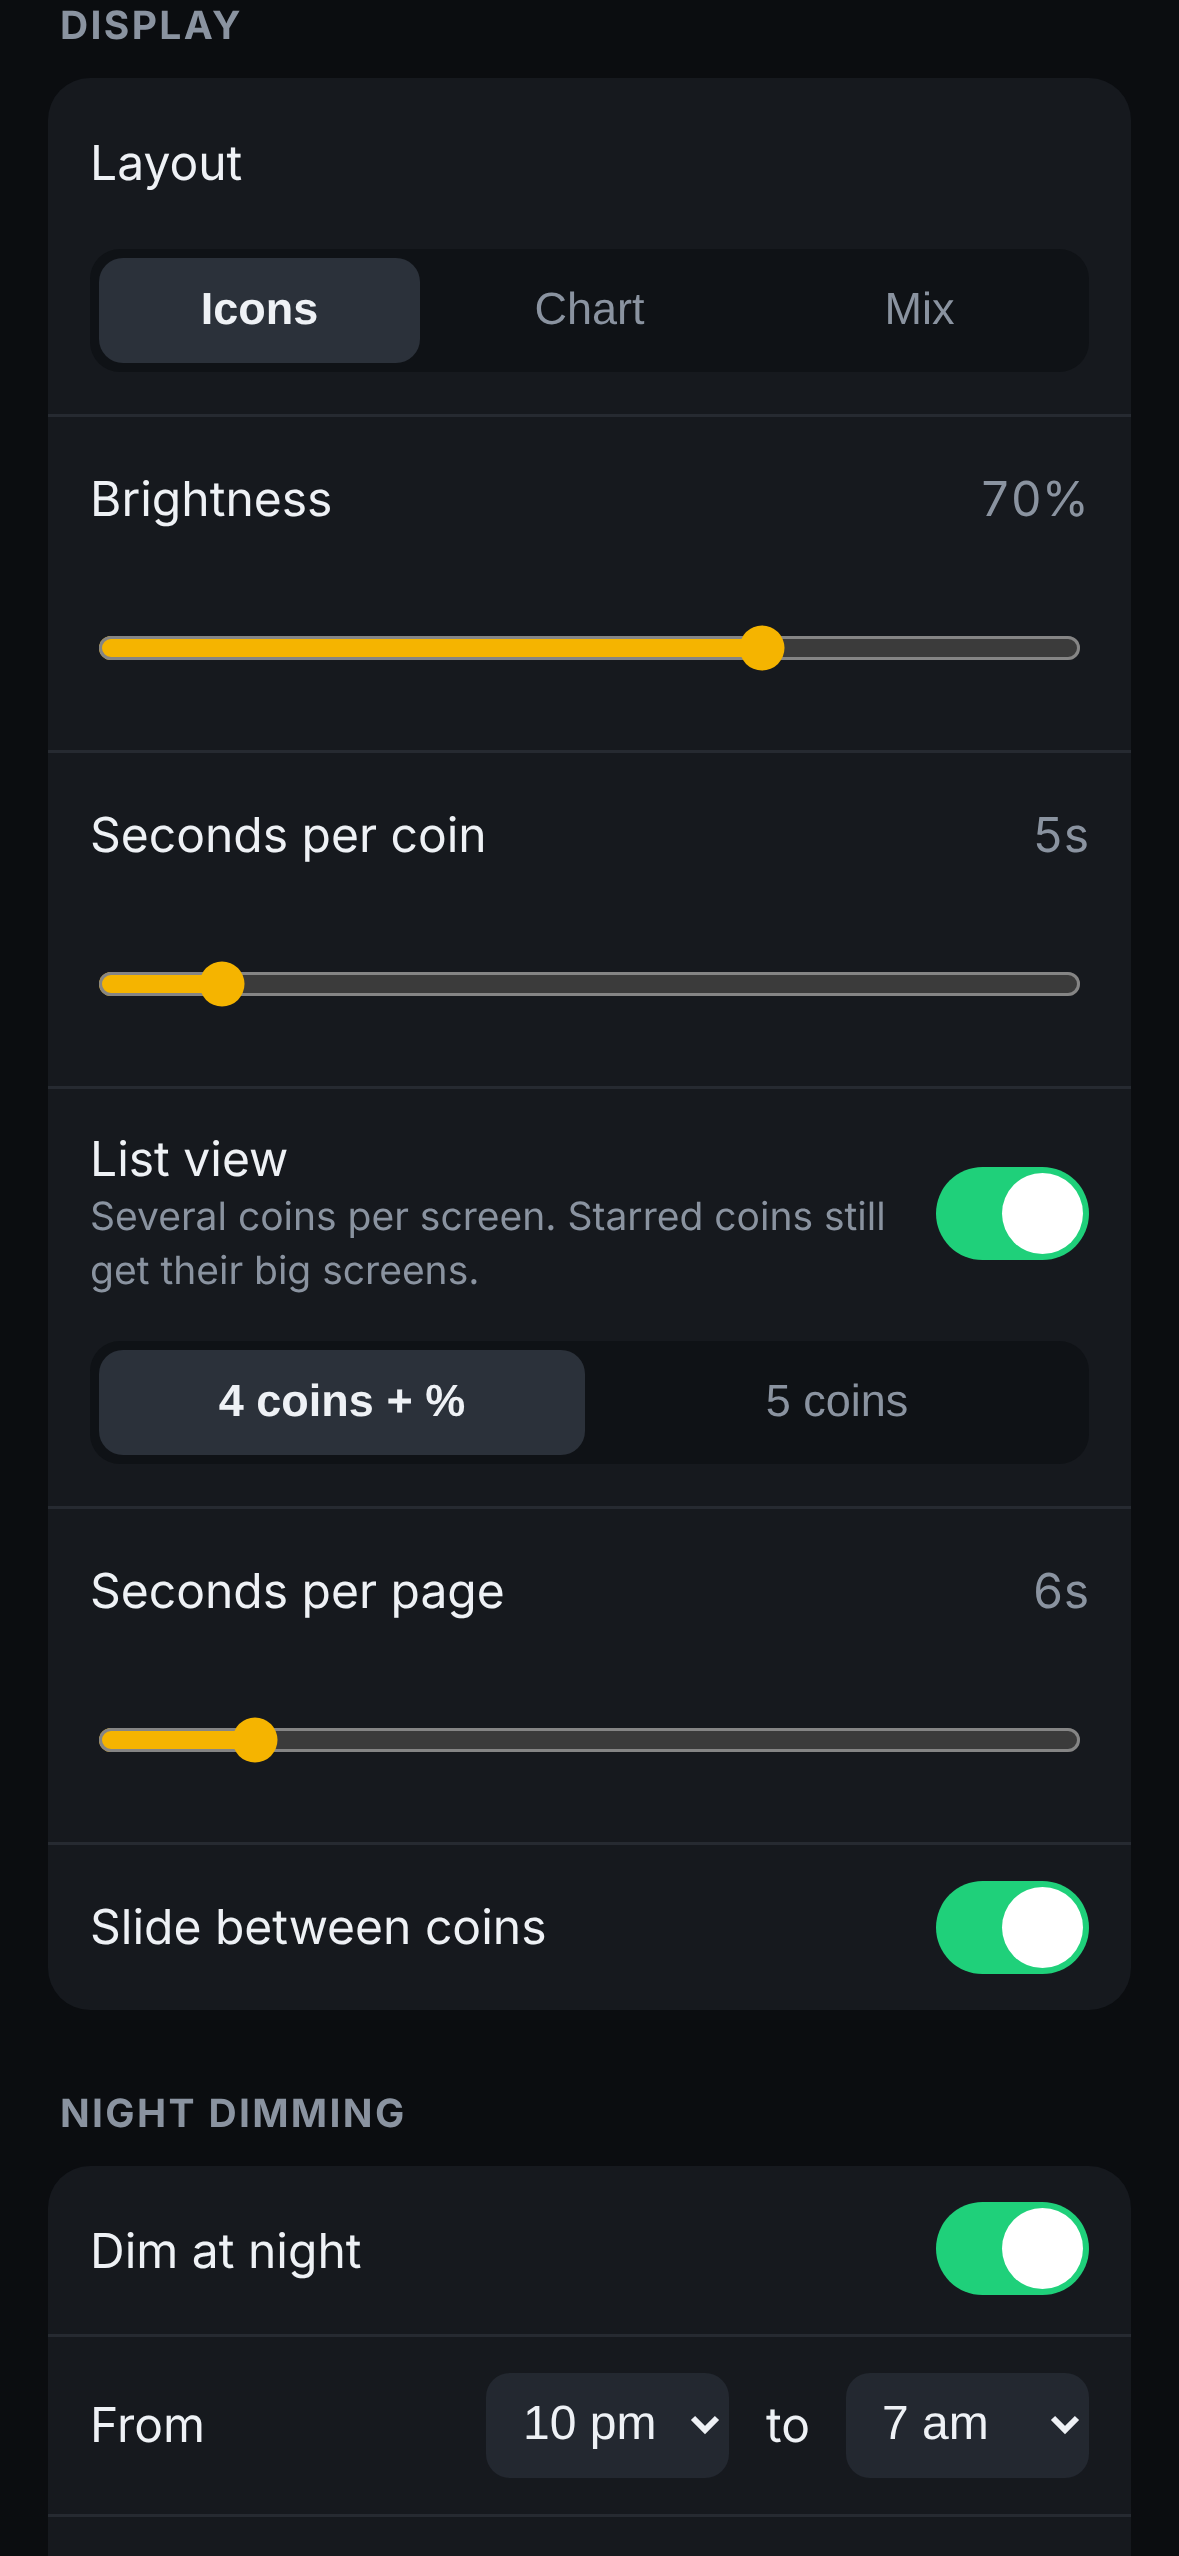
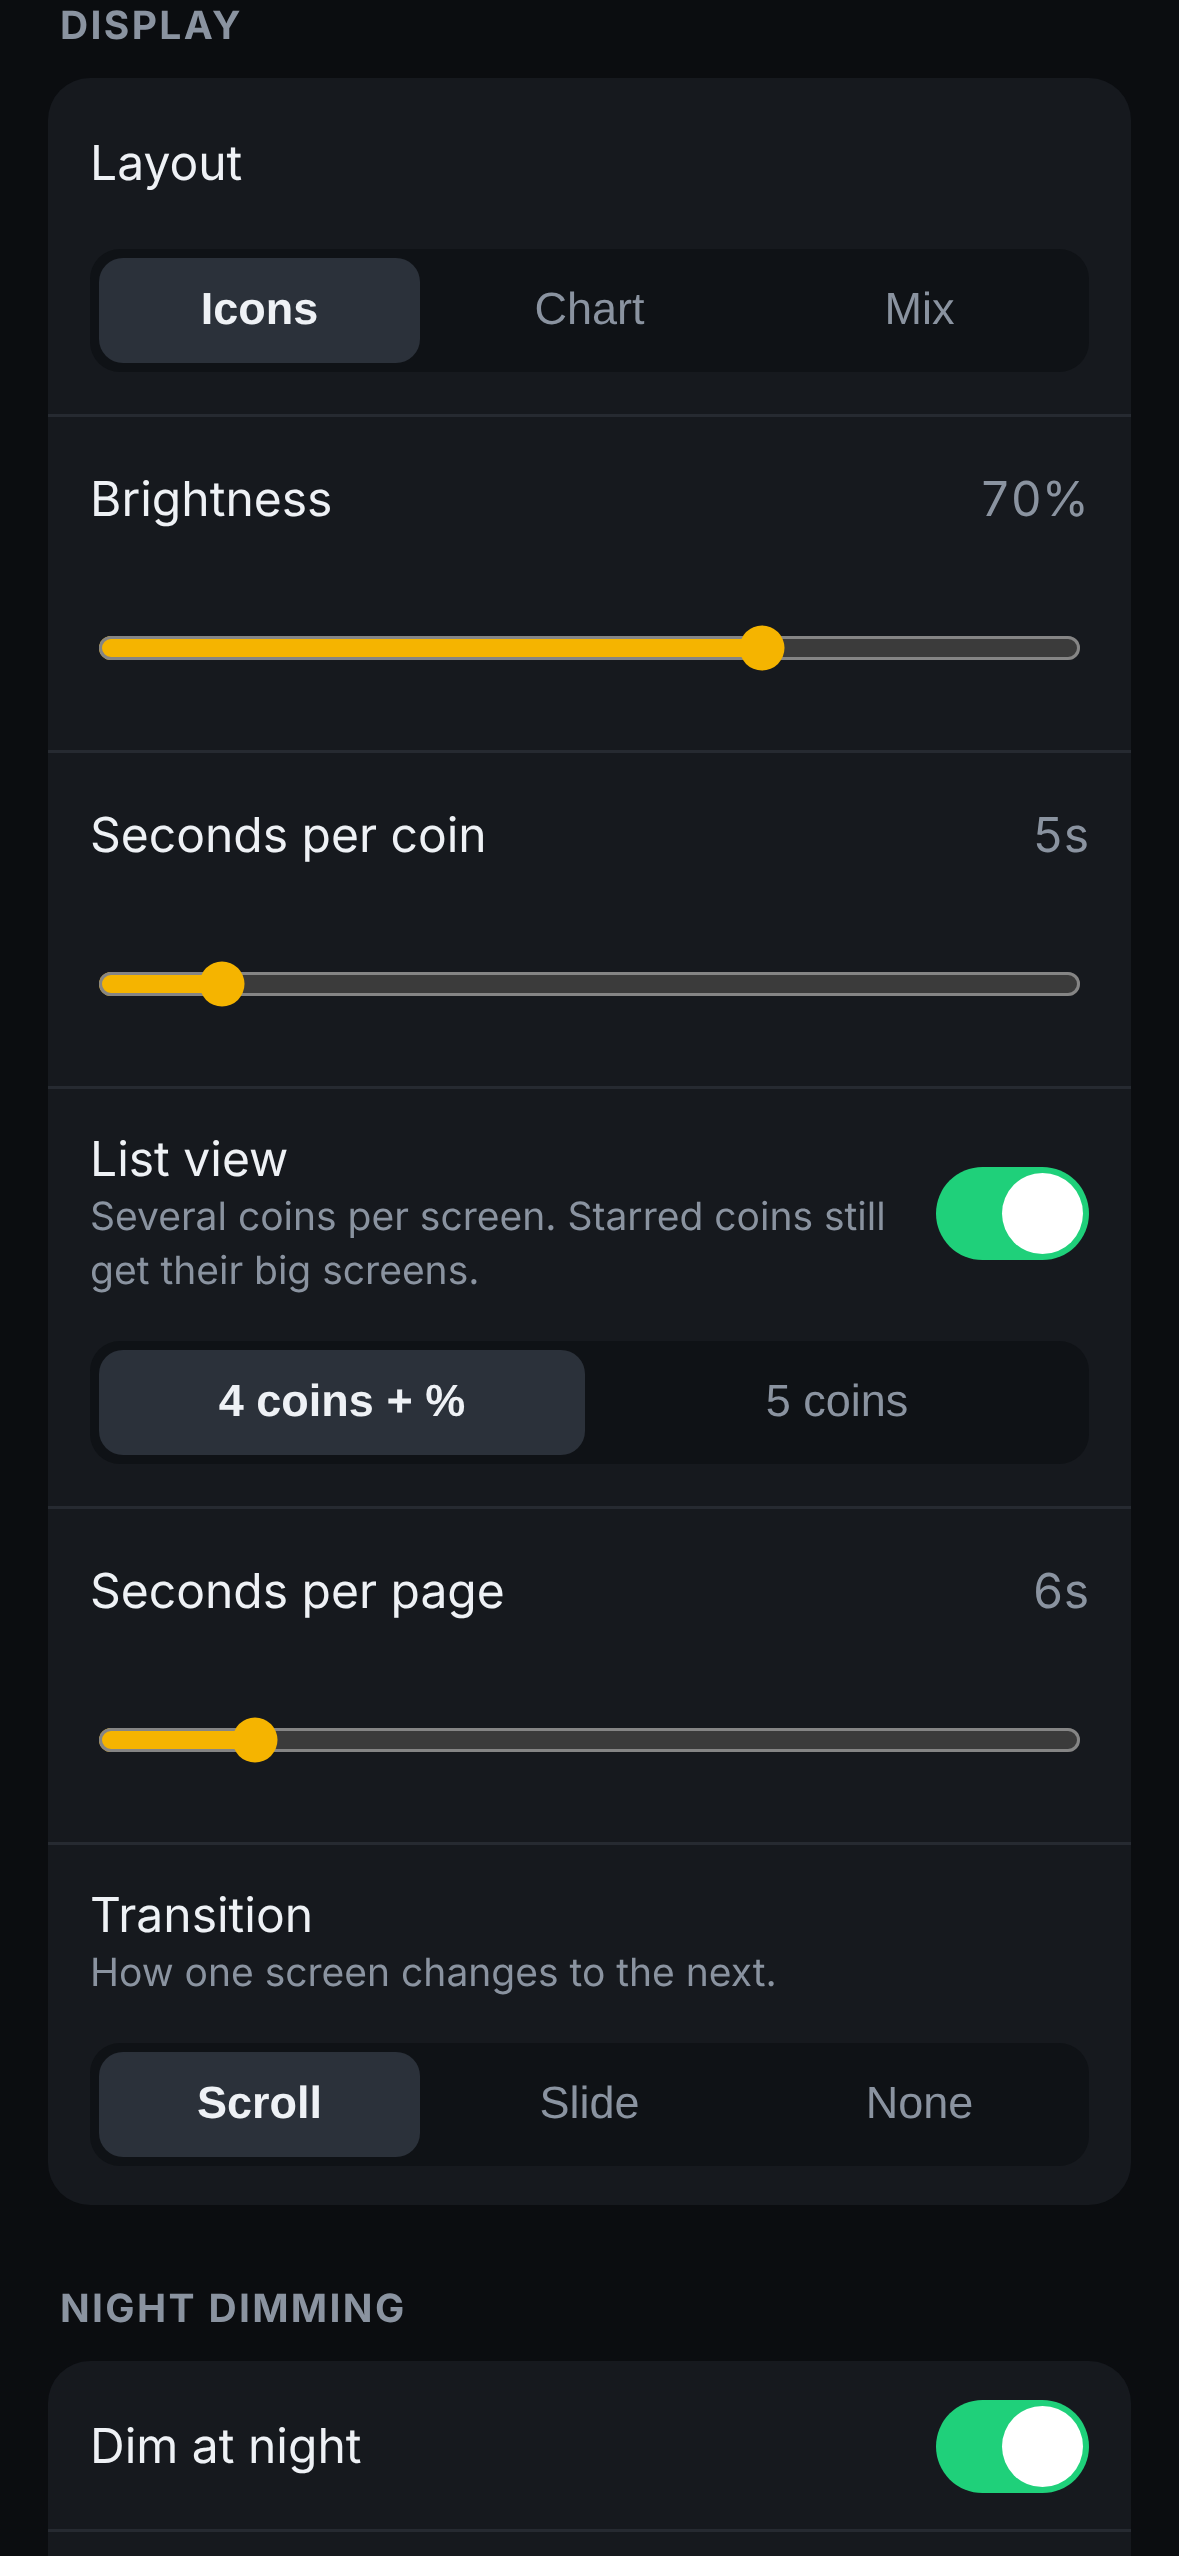
Scroll-up transition, now the default
- TRANSITION=scroll|slide|none (default scroll): the old screen moves up
  and out while the new one rolls in from the bottom, with the slide's
  0.45 s ease-out timing. Existing TRANSITION=slide/none settings keep
  working; unknown values fall back to scroll.
- Phone page: the "Slide between coins" switch is now a Transition
  choice (Scroll / Slide / None).
- docs/preview-scroll.gif, made by the real Ticker.show() code; README
  and settings.env.example updated; settings-page screenshots refreshed.

Claude-Session: https://claude.ai/code/session_01CrJip9Jrz3Ax6cVzvSE4re

diff --git a/ticker.py b/ticker.py
@@ -35,6 +35,7 @@ HERE = os.path.dirname(os.path.abspath(__file__))
 REQUEST_CACHE = os.path.join(HERE, "cache", "requests.json")
 
 SCREEN_NAMES = ("clock", "feargreed", "indices", "coins")
+TRANSITIONS = ("scroll", "slide", "none")
 # Tokenized index funds listed on CoinGecko: fetched in the same call as the coins
 CG_INDICES = [("spx", "sp500-xstock", "S&P"), ("ndq", "nasdaq-xstock", "NAS")]
 log = logging.getLogger("ticker")
@@ -99,7 +100,7 @@ class Config:
     refresh_rate: int = 0          # seconds; 0 = auto (fit the monthly budget)
     monthly_budget: int = 10000
     sleep: float = 5
-    transition: str = "slide"
+    transition: str = "scroll"     # scroll (up), slide (left) or none
     layout: str = "classic"
     featured: list = field(default_factory=list)
     focus: bool = False            # only starred (FEATURED) coins in the coin rotation
@@ -144,7 +145,7 @@ class Config:
             c.refresh_rate = env("REFRESH_RATE", 0, int, lo=60, hi=86400)
         c.monthly_budget = env("MONTHLY_CALL_BUDGET", c.monthly_budget, int, lo=100)
         c.sleep = env("SLEEP", c.sleep, float, lo=1, hi=300)
-        c.transition = env("TRANSITION", c.transition, str.lower, choices=("slide", "none"))
+        c.transition = env("TRANSITION", c.transition, str.lower, choices=TRANSITIONS)
         c.layout = env("LAYOUT", c.layout, str.lower, choices=Renderer.LAYOUTS)
         c.featured = [s.strip().lower() for s in env("FEATURED", "").split(",") if s.strip()]
         c.focus = env("FOCUS", False, bool)
@@ -185,6 +186,25 @@ def get_tz(name):
     except Exception:
         log.warning("unknown TIMEZONE %r, using the Pi's clock setting", name)
         return None
+
+
+def transition_frames(old, new, vertical=False, frames=14):
+    """The in-between frames of a scroll (old moves up, new rolls in from the bottom)
+    or slide (old moves left, new comes in from the right). Ease-out: fast, then settling."""
+    size = old.height if vertical else old.width
+    out = []
+    for i in range(1, frames):
+        t = 1 - (1 - i / frames) ** 3  # ease-out cubic
+        d = round(size * t)
+        frame = Image.new("RGB", old.size)
+        if vertical:
+            frame.paste(old, (0, -d))
+            frame.paste(new, (0, size - d))
+        else:
+            frame.paste(old, (-d, 0))
+            frame.paste(new, (size - d, 0))
+        out.append(frame)
+    return out
 
 
 def in_dim_window(spec, now=None):
@@ -413,21 +433,21 @@ class Ticker:
         self.display.set_brightness(self.cfg.dim_brightness if dim else self.cfg.brightness)
 
     def show(self, image, hold, slide=True):
-        if slide and self.current is not None and self.cfg.transition == "slide":
-            self.slide(self.current, image)
+        """Show a screen, animating from the previous one unless ``slide`` is False
+        (used when a screen changes in place, like the indices % / $ flip)."""
+        if slide and self.current is not None and self.cfg.transition in ("scroll", "slide"):
+            self.transition(self.current, image, vertical=self.cfg.transition == "scroll")
         self.display.show(image, hold)
         self.current = image
 
-    def slide(self, old, new, frames=14, duration=0.45):
-        w = self.display.width
-        for i in range(1, frames):
-            t = i / frames
-            t = 1 - (1 - t) ** 3  # ease-out
-            dx = round(w * t)
-            frame = Image.new("RGB", old.size)
-            frame.paste(old, (-dx, 0))
-            frame.paste(new, (w - dx, 0))
+    def transition(self, old, new, vertical=False, frames=14, duration=0.45):
+        """Move the old screen out and the new one in over ``duration`` seconds with an
+        ease-out curve: up and out the top (scroll) or left and out the side (slide)."""
+        for frame in transition_frames(old, new, vertical, frames):
             self.display.show(frame, duration / frames)
+
+    def slide(self, old, new, frames=14, duration=0.45):
+        self.transition(old, new, vertical=False, frames=frames, duration=duration)
 
     def loading(self):
         for tick in range(4):

diff --git a/webui.py b/webui.py
@@ -31,7 +31,7 @@ COIN_META = os.path.join(CACHE, "coins.json")
 EDITABLE = {  # key -> validator returning the string to store
     "SYMBOLS": lambda v: _symbols(v),
     "LAYOUT": lambda v: _choice(v.strip().lower(), ("classic", "chart", "mix")),
-    "TRANSITION": lambda v: _choice(v.strip().lower(), ("slide", "none")),
+    "TRANSITION": lambda v: _choice(v.strip().lower(), ("scroll", "slide", "none")),
     "BRIGHTNESS": lambda v: _int(v, 5, 100),
     "SLEEP": lambda v: _int(v, 2, 60),
     "DIM_HOURS": lambda v: _dim(v),
@@ -341,7 +341,7 @@ class WebApp:
         return {
             "coins": coins,
             "layout": clean("LAYOUT", "classic"),
-            "transition": clean("TRANSITION", "slide"),
+            "transition": clean("TRANSITION", "scroll"),
             "brightness": int(clean("BRIGHTNESS", "70")),
             "sleep": int(clean("SLEEP", "5")),
             "dim_hours": clean("DIM_HOURS", ""),
@@ -718,7 +718,8 @@ function render(){
    ${S.list_view!='off'?`<div class="row" style="border-top:0;padding-top:0">${seg('list_view',[['4','4 coins + %'],['5','5 coins']])}</div>
    <div class="row"><div class="grow">Seconds per page</div><div class="val" id="lpv">${S.list_page_seconds}s</div></div>
    <div class="row" style="border-top:0;padding-top:0"><input type="range" id="lpage" min="2" max="30" value="${S.list_page_seconds}"></div>`:''}
-   <div class="row"><div class="grow">Slide between coins</div><label class="switch"><input type="checkbox" id="slide" ${S.transition=='slide'?'checked':''}><span></span></label></div>
+   <div class="row"><div class="grow">Transition<div class="name" style="white-space:normal">How one screen changes to the next.</div></div></div>
+   <div class="row" style="border-top:0;padding-top:0">${seg('transition',[['scroll','Scroll'],['slide','Slide'],['none','None']])}</div>
   </div>
   <h2>Night dimming</h2><div class="card">
    <div class="row"><div class="grow">Dim at night</div><label class="switch"><input type="checkbox" id="dim" ${dim?'checked':''}><span></span></label></div>
@@ -846,7 +847,6 @@ function bind(){
   $('#zipgo').onclick=findPlace;$('#zip').onkeydown=e=>{if(e.key=='Enter')findPlace()};
   $('#bright').oninput=e=>{S.brightness=+e.target.value;$('#bv').textContent=S.brightness+'%';save()};
   $('#sleep').oninput=e=>{S.sleep=+e.target.value;$('#sv').textContent=S.sleep+'s';save()};
-  $('#slide').onchange=e=>{S.transition=e.target.checked?'slide':'none';save()};
   $('#listview').onchange=e=>{S.list_view=e.target.checked?'4':'off';save();render()};
   $('#focus').onchange=e=>{S.focus=e.target.checked?'on':'off';focusHint();save()};
   if($('#lpage'))$('#lpage').oninput=e=>{S.list_page_seconds=+e.target.value;$('#lpv').textContent=S.list_page_seconds+'s';save()};

diff --git a/tests/test_ticker.py b/tests/test_ticker.py
@@ -177,3 +177,62 @@ def test_network_error_message_reason():
     t = Ticker.__new__(Ticker)
     t.last_error = NetworkError("x")
     assert t.error_reason() == "NO NETWORK?"
+
+
+
+# --- transitions ---------------------------------------------------------------
+def _two_screens():
+    from PIL import Image
+    return Image.new("RGB", (64, 32), (255, 0, 0)), Image.new("RGB", (64, 32), (0, 0, 255))
+
+
+def test_scroll_moves_old_up_and_new_in_from_bottom():
+    from ticker import transition_frames
+    old, new = _two_screens()
+    frames = transition_frames(old, new, vertical=True)
+    assert len(frames) == 13
+    for f in frames:
+        col = [f.getpixel((10, y)) for y in range(32)]
+        split = col.index((0, 0, 255))              # new screen's top edge
+        assert all(c == (255, 0, 0) for c in col[:split])
+        assert all(c == (0, 0, 255) for c in col[split:])
+        assert all(f.getpixel((x, split)) == (0, 0, 255) for x in range(64))  # whole rows, no sideways move
+    tops = [[f.getpixel((10, y)) for y in range(32)].index((0, 0, 255)) for f in frames]
+    assert tops == sorted(tops, reverse=True) and 0 <= tops[-1] < tops[0] < 32
+    steps = [a - b for a, b in zip(tops, tops[1:])]
+    assert steps[0] > steps[-1]                     # ease-out: fast first, slow at the end
+
+
+def test_slide_still_moves_sideways():
+    from ticker import transition_frames
+    old, new = _two_screens()
+    f = transition_frames(old, new, vertical=False)[6]
+    row = [f.getpixel((x, 5)) for x in range(64)]
+    assert row[0] == (255, 0, 0) and row[-1] == (0, 0, 255)
+    assert f.getpixel((63, 0)) == f.getpixel((63, 31))
+
+
+@pytest.mark.parametrize("setting,frames", [("scroll", 13), ("slide", 13), ("none", 0)])
+def test_transition_setting_timing(http, setting, frames):
+    t = make_ticker(http)
+    t.cfg.transition = setting
+    holds = []
+    t.display.show = lambda img, hold=0: holds.append(hold)
+    a, b = _two_screens()
+    t.show(a, 1)
+    t.show(b, 1)
+    assert len(holds) == 2 + frames
+    assert sum(holds[1:-1]) == pytest.approx(0.45 * 13 / 14 if frames else 0)  # same timing as before
+    holds.clear()
+    t.show(a, 1, slide=False)                       # in-place change: never animated
+    assert holds == [1]
+
+
+def test_transition_default_and_old_values(monkeypatch):
+    assert Config.from_env().transition == "scroll"
+    monkeypatch.setenv("TRANSITION", "slide")       # existing settings files keep working
+    assert Config.from_env().transition == "slide"
+    monkeypatch.setenv("TRANSITION", "NONE")
+    assert Config.from_env().transition == "none"
+    monkeypatch.setenv("TRANSITION", "fade")
+    assert Config.from_env().transition == "scroll"

diff --git a/screenshots.py b/screenshots.py
@@ -99,6 +99,36 @@ def main():
         print("wrote", os.path.relpath(path))
     sheet = contact_sheet(paths, os.path.join(args.out, "panel-contact-sheet.png"))
     print("wrote", os.path.relpath(sheet))
+    gif = transition_gif(os.path.join(HERE, "docs", "preview-scroll.gif"), args.rows, args.cols)
+    print("wrote", os.path.relpath(gif))
+
+
+def transition_gif(out, rows=32, cols=64, transition="scroll", hold=1.2):
+    """Animated GIF of the screen transition, made by the real Ticker.show() code."""
+    from display import GifDisplay
+    from sample import sample_assets
+    cfg = Config()
+    cfg.rows, cfg.cols = rows, cols
+    cfg.download_icons = False
+    cfg.transition = transition
+    cfg.weather_place = "Home"
+    gif = GifDisplay(cols, rows, scale=6)
+    t = Ticker(cfg, gif)
+    apply_sample(t)
+    r = t.renderer
+    coins = {a["symbol"]: a for a in sample_assets(["btc", "eth", "sol", "ada"])}
+    r.layout = "classic"
+    first = r.asset(coins["BTC"])
+    r.layout = "chart"
+    screens = [first, r.asset(coins["ETH"]), r.list_page(list(coins.values()), rows=4),
+               r.clock(FIXED_TIME, t.weather.data, "F", "Home")]
+    r.layout = "classic"
+    for img in screens:
+        t.show(img, hold)
+    t.show(first, 0.02)          # scroll back to the start so the loop is seamless
+    gif.frames.pop(), gif.durations.pop()
+    gif.save(out)
+    return out
 
 
 LABELS = {

diff --git a/tests/test_webui.py b/tests/test_webui.py
@@ -162,3 +162,11 @@ def test_indices_view_setting_on_page(app):
     assert app.settings()["indices_view"] == "both"
     with pytest.raises(ValueError):
         app.save({"indices_view": "points"})
+
+
+def test_transition_choices(app):
+    assert app.settings()["transition"] == "scroll"
+    for v in ("scroll", "slide", "none", "Scroll"):
+        assert app.save({"transition": v})["TRANSITION"] == v.lower()
+    with pytest.raises(ValueError):
+        app.save({"transition": "fade"})

diff --git a/README.md b/README.md
@@ -10,8 +10,10 @@ for current Raspberry Pi OS. The hardware is the same; the software is rewritten
 
 Each coin screen shows the coin's icon, ticker, 24h change with ▲/▼, a 7-day chart and the
 price (auto-sized: `$109,235`, `$4,012.37`, `$0.0₄1123`). Each cycle can also show a **clock**
-with the weather, the crypto **Fear & Greed index**, and a **market indices** page. Screens slide
-between each other. Everything can be changed from your phone.
+with the weather, the crypto **Fear & Greed index**, and a **market indices** page. Screens scroll
+up into each other (or slide sideways, or switch instantly). Everything can be changed from your phone.
+
+![Scroll transition](docs/preview-scroll.gif)
 
 More screenshots (rendered by the emulator) are in [`docs/screenshots/`](docs/screenshots/):
 
@@ -128,7 +130,7 @@ value is logged as a warning and the default is used.
 | `REFRESH_RATE` | `auto` | `auto` (as fast as once a minute within the monthly budget) or seconds, min 60 |
 | `MONTHLY_CALL_BUDGET` | `10000` | CoinGecko calls per month (free Demo plan: 10,000) |
 | `SLEEP` | `5` | Seconds per coin screen |
-| `TRANSITION` | `slide` | `slide` or `none` |
+| `TRANSITION` | `scroll` | `scroll` (old screen moves up, new one rolls in from the bottom), `slide` (sideways) or `none`. Both animations take about 0.45 s |
 | `LAYOUT` | `classic` | `classic` (icon + mini chart), `chart` (full-screen chart), `mix` |
 | `FEATURED` | | Starred coins: get a big-picture screen before their price |
 | `FOCUS` | `off` | `on` = coin rotation shows only starred coins (clock, Fear & Greed and indices keep running). With nothing starred, all coins show |
@@ -163,7 +165,7 @@ value is logged as a warning and the default is used.
 3. In Safari: **Share → Add to Home Screen** for an app icon.
 
 You can search and add coins (with rank and icon, so you pick the real one), reorder, star (★),
-turn on **Focus** and **List view**, change layout, brightness, time per coin, night dimming,
+turn on **Focus** and **List view**, change layout, transition (Scroll / Slide / None), brightness, time per coin, night dimming,
 screens, weather location, currency and refresh rate. Changes show on the panel within seconds.
 
 Every value is checked on the Pi before it's saved (ranges, allowed choices, coin-id format,
@@ -270,7 +272,8 @@ node tools/settings_screenshots.mjs        # phone settings page at iPhone size 
 node tools/widget_screenshots.mjs          # iPhone widget variants (Playwright)
 ```
 
-Animated GIF preview: `python preview.py --sample` (writes `preview.gif`).
+Animated GIF preview: `python preview.py --sample` (writes `preview.gif`). `screenshots.py` also
+writes `docs/preview-scroll.gif`, the scroll transition made by the real `Ticker.show()` code.
 
 ## How failures are handled
 
